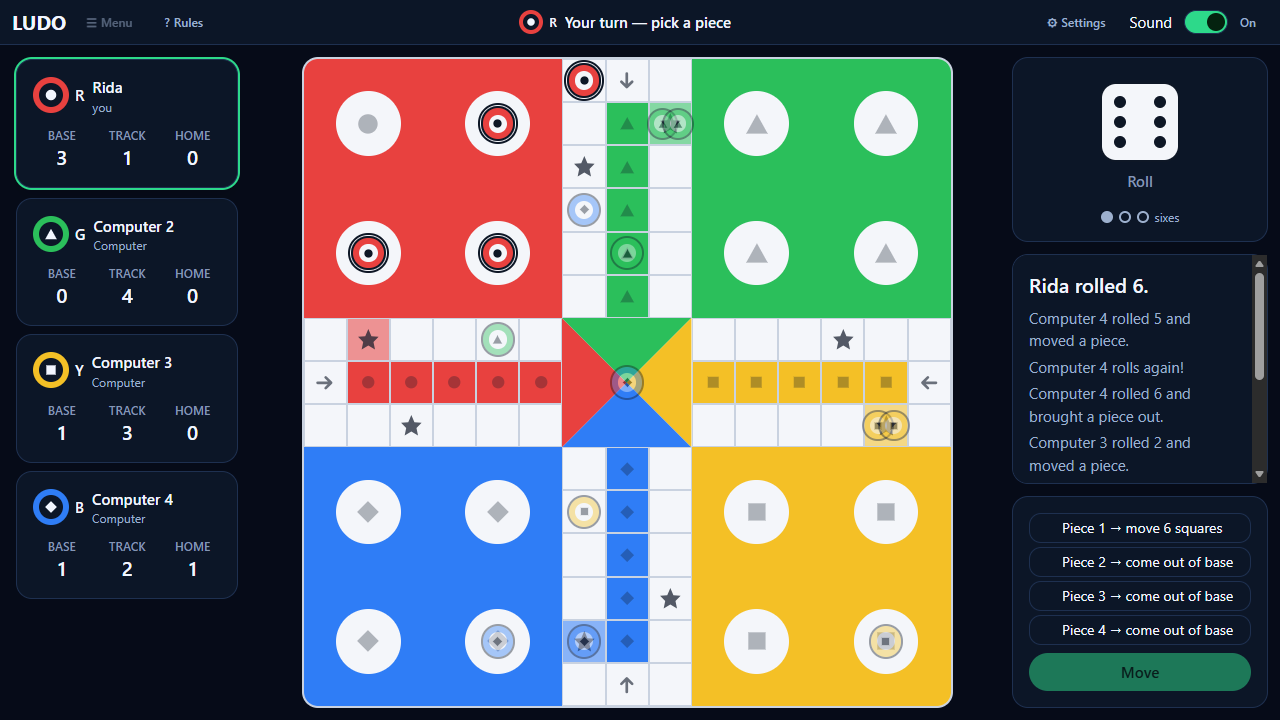
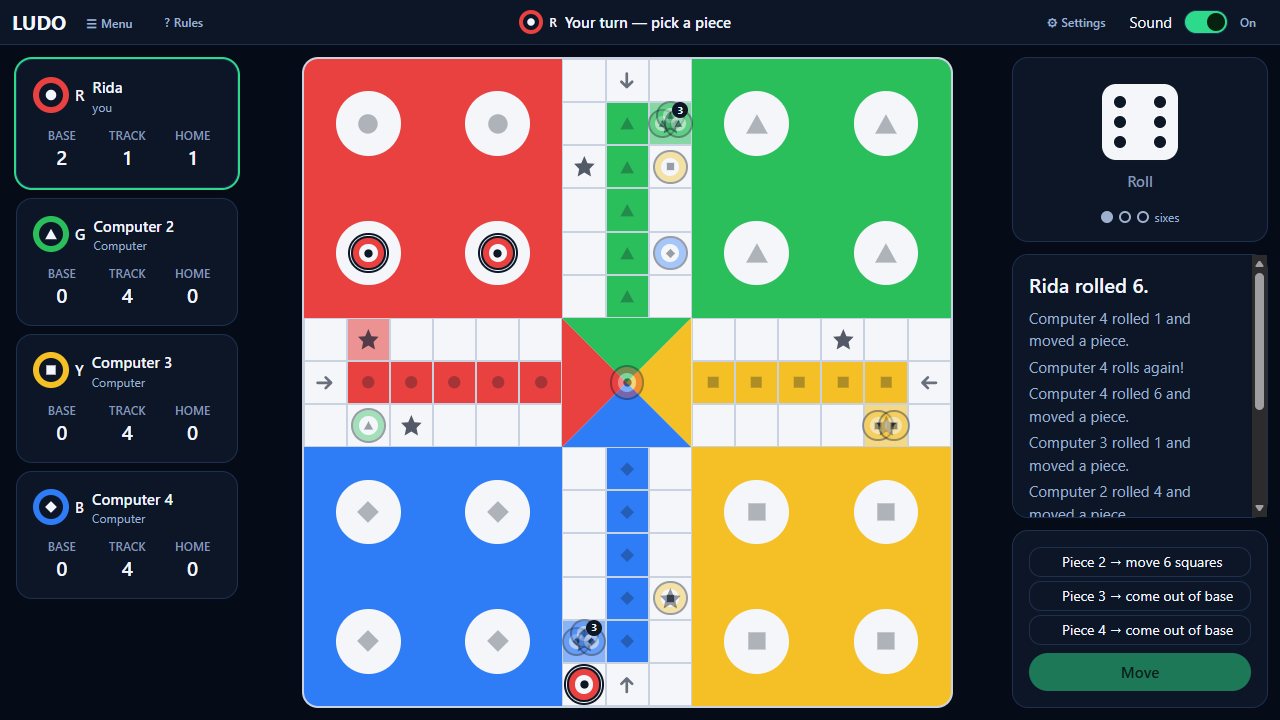
docs(traceability): record P10 evidence (FR-SYS-06, FR-SYS-08)
Adds the two-tab checks and screenshots for the win screen, restart and
leaving, and refreshes the rows they affect, including the PR count for
NFR-SYS-13.

diff --git a/docs/05-traceability.md b/docs/05-traceability.md
@@ -17,11 +17,11 @@ Status: `—` not started · `WIP` · `Done` · `Blocked (reason)`
 | FR-SYS-03 Legal choices and move | FR-14–16, FR-18 | P8 | `src/store/gameStore.test.ts` covers EXC-03-2 in the store (an accepted move changes nothing until the snapshot arrives) and that legal moves come only from the server's list. `src/screens/GameScreen.test.tsx`, `src/interaction/useMoveSelection.test.ts`, `src/components/PieceLayer.test.tsx`, `src/components/Piece.test.tsx` and `src/components/MoveList.test.tsx` prove only `legalMoves` pieces are buttons (POST-03-1), the destination and capture preview, that one click never sends, that nothing moves before the new snapshot (EXC-03-2), and that a piece no longer legal shows the reason and resyncs (EXC-03-1, tests only). `docs/evidence/FR-SYS-03-move-checks.md` records whole games by mouse and by keyboard in a real match, and `docs/evidence/FR-SYS-03-capture-preview.png` shows the preview | Done |
 | FR-SYS-04 Invalid moves | FR-17 | P3, P8, P11 | `src/store/gameStore.test.ts` covers POST-04-1 (a rejected move leaves the snapshot deep-equal) and EXC-04-1 in the store (a timed-out command keeps state and clears pending). `src/adapter/LgsAdapter.test.ts` covers EXC-04-1 over a real socket (no ack, an ack for another request or an incomplete ack becomes `INTERNAL_ERROR`). `src/screens/GameScreen.test.tsx` proves on the game screen that a refused move shows the server's reason, drops the choice and leaves the board alone, that a reply with no reason gets friendly words (ALT-04-1), and that pressing again retries (EXC-04-1). These are tests only, because the real screen never offers an illegal piece. `src/components/ToastRegion.test.tsx` proves an error message stays until dismissed and sits in a live region. Still needed: recovery after a dropped connection (P11) | WIP |
 | FR-SYS-05 Animation and events | FR-19, FR-23, FR-36, FR-38 | P8, P9 | `src/store/gameStore.test.ts` proves an event never changes the snapshot. `src/feedback/messages.test.ts` covers every message template and proves nothing is guessed (EXC-05-1), `src/feedback/useEventFeedback.test.ts` proves events play in order and that no effect appears without an event, `src/components/MessageLog.test.tsx` covers the log, and `src/components/EventBanner.test.tsx` covers the banners. `src/components/PieceLayer.test.tsx` proves a moved piece keeps its element and lands where the geometry says, `src/feedback/motion.test.ts` covers how long it takes, and `docs/evidence/FR-SYS-09-game-screen-checks.md` measured 0 px error after a live move. `src/interaction/useMoveWalk.test.ts` and `src/screens/GameScreen.test.tsx` prove the step-by-step walk, Skip, an interrupted walk ending where the snapshot says, and the same final board with animation on or off (POST-05-2). `docs/evidence/FR-SYS-03-move-checks.md` measures each of these in a real match, and `docs/evidence/FR-SYS-05-event-checks.md` records a capture playing in order, the log reading correctly, and Animations and Sound Off ending on the same board and words | Done |
-| FR-SYS-06 Progress and completion | FR-25–29 | P6, P10 | `src/config/geometry.test.ts` covers `progressCounts` and `src/store/gameStore.test.ts` covers `selectProgress` and `selectPlayerProgress`. `src/screens/GameScreen.test.tsx` checks Base, Track and Home against written-out numbers for all six fixtures, and that a dev-only check complains if `home` differs from `player.piecesHome`. `src/components/StatusPanel.test.tsx` covers the cards. `docs/evidence/FR-SYS-09-game-screen-checks.md` shows the cards matching the pieces in a live match. Still needed: winner screen only on `GAME_OVER` (P10) | WIP |
+| FR-SYS-06 Progress and completion | FR-25–29 | P6, P10 | `src/config/geometry.test.ts` covers `progressCounts` and `src/store/gameStore.test.ts` covers `selectProgress` and `selectPlayerProgress`. `src/screens/GameScreen.test.tsx` checks Base, Track and Home against written-out numbers for all six fixtures, and that a dev-only check complains if `home` differs from `player.piecesHome`. `src/components/StatusPanel.test.tsx` covers the cards. `docs/evidence/FR-SYS-09-game-screen-checks.md` shows the cards matching the pieces in a live match. `src/screens/WinScreen.test.tsx` proves the winner is the server's and the ranking appears only if sent, in the server's order (POST-06-3, EXC-06-1). `src/store/gameStore.test.ts` proves each match counts once in the session score, and `src/feedback/diceCheck.test.ts` covers the dice check. `src/feedback/useEventFeedback.test.ts` and `src/screens/GameScreen.test.tsx` prove the win screen waits for `GAME_OVER` and the last move (POST-06-2). `docs/evidence/FR-SYS-06-win-restart-checks.md` and `docs/evidence/FR-SYS-06-win-screen.png` show it in real matches | Done |
 | FR-SYS-07 Computer moves | FR-30–31 | P5, P7 | `src/store/gameStore.test.ts` covers `selectIsComputerTurn`. Choosing computer players is done: `src/screens/LobbyScreen.test.tsx` proves a seat fills only when `room:updated` arrives (POST-07-2), and `docs/evidence/FR-SYS-01-lobby-flow.md` shows it live in two tabs. `docs/evidence/FR-SYS-07-computer-move-from-snapshot.png` shows a computer's move drawn from a real snapshot on the game screen. `src/screens/GameScreen.test.tsx` proves a computer's turn says "Computer is thinking…" with the dots, and `docs/evidence/FR-SYS-07-computer-thinking.png` shows it in a real match | Done |
-| FR-SYS-08 Restart, exit, rematch | FR-32–34 | P5, P10 | `src/components/ConfirmDialog.test.tsx` covers the dialog alone. Leaving the lobby is connected: `src/screens/LobbyScreen.test.tsx` and `src/store/gameStore.test.ts` prove Cancel sends nothing (POST-08-1) and a failed leave keeps the room (POST-08-3), and `docs/evidence/FR-SYS-01-lobby-flow.md` shows Esc and Cancel changing nothing in a real browser. Still needed: confirm dialog on restart and leave during a game; cancel leaves the game unchanged | WIP |
+| FR-SYS-08 Restart, exit, rematch | FR-32–34 | P5, P10 | `src/components/ConfirmDialog.test.tsx` covers the dialog alone. Leaving the lobby is connected: `src/screens/LobbyScreen.test.tsx` and `src/store/gameStore.test.ts` prove Cancel sends nothing (POST-08-1) and a failed leave keeps the room (POST-08-3), and `docs/evidence/FR-SYS-01-lobby-flow.md` shows Esc and Cancel changing nothing in a real browser. `src/components/GameMenu.test.tsx` and `src/screens/GameScreen.test.tsx` prove Restart and Leave ask first, Cancel changes nothing (POST-08-1), and a refused request keeps the game (POST-08-3, tests only). `src/screens/WinScreen.test.tsx`, `src/screens/StoppedScreen.test.tsx` and `src/interaction/useAppNavigation.test.ts` cover Play again, New game, Main menu and the stopped screen, which is tests only. `docs/evidence/FR-SYS-06-win-restart-checks.md` and `docs/evidence/FR-SYS-08-restart-confirm.png` show the rest in real matches with two tabs | Done |
 | FR-SYS-09 One-screen view | FR-35–36 | P6 | `docs/evidence/FR-SYS-09-one-screen-1280x720.png` and `docs/evidence/FR-SYS-09-game-screen-checks.md`: board, dice, turn, progress and messages all fit at 1280×720 with no scrolling, measured in Edge. Under 1024 px the layout stacks and hides nothing (ALT-09-1). `src/screens/GameScreen.test.tsx` proves every part is on the screen. `docs/evidence/FR-SYS-03-move-checks.md` re-measures the screen with the longest list of moves open, and `docs/evidence/FR-SYS-05-event-checks.md` with a full message log. P7 and P9 filled the dice and messages with live content | Done |
-| FR-SYS-10 Sound, animation, theme | FR-37–39 | P5, P8, P9 | `src/App.test.tsx` covers all three settings in the Settings modal and POST-10-2 and POST-10-3: changing them leaves the snapshot and room untouched and sends nothing to the server. `docs/evidence/FR-SYS-01-lobby-flow.md` shows the theme switching on every screen, and `docs/evidence/FR-SYS-10-game-light.png` shows the game screen in light theme. `src/screens/GameScreen.test.tsx` proves the top bar's sound switch leaves the snapshot alone. `docs/evidence/NFR-SYS-08-kitchen-sink-checks.md` shows On, Fast and Off changing how long CSS motion takes. `docs/evidence/FR-SYS-03-move-checks.md` shows Animations On and Off ending on an identical board in a real match. `src/feedback/sound.test.ts` proves sound waits for the first press and does nothing when off. `docs/evidence/FR-SYS-05-event-checks.md` shows the right sounds playing in a real match (placeholder tones), and sound, theme and animation changed during a real game with the board and log unchanged. Saving settings stays behind `PERSIST_SETTINGS` (ALT-10-1 is TO CONFIRM) | Done |
+| FR-SYS-10 Sound, animation, theme | FR-37–39 | P5, P8, P9 | `src/App.test.tsx` covers all three settings in the Settings modal and POST-10-2 and POST-10-3: changing them leaves the snapshot and room untouched and sends nothing to the server. `docs/evidence/FR-SYS-01-lobby-flow.md` shows the theme switching on every screen, and `docs/evidence/FR-SYS-10-game-light.png` shows the game screen in light theme. `src/screens/GameScreen.test.tsx` proves the top bar's sound switch leaves the snapshot alone. `docs/evidence/NFR-SYS-08-kitchen-sink-checks.md` shows On, Fast and Off changing how long CSS motion takes. `docs/evidence/FR-SYS-03-move-checks.md` shows Animations On and Off ending on an identical board in a real match. `src/feedback/sound.test.ts` proves sound waits for the first press and does nothing when off. `docs/evidence/FR-SYS-05-event-checks.md` shows the right sounds playing in a real match (placeholder tones), and sound, theme and animation changed during a real game with the board and log unchanged. `docs/evidence/FR-SYS-10-win-light.png` shows the win screen in light theme. Saving settings stays behind `PERSIST_SETTINGS` (ALT-10-1 is TO CONFIRM) | Done |
 | (D2 FR-07) Rules summary | FR-07 | P5, P6 | `src/components/RulesSummary.test.tsx` proves the text is built from `rules`. `src/App.test.tsx` proves How to play opens the standard rules from the main screen, that a room's own rules replace them in the lobby, and that the game screen's Rules button opens that match's rules. `docs/evidence/NFR-SYS-11-changed-rules.png` shows the text following the server's rules in a real match | Done |
 | (D2 FR-03) Same-device HvH | FR-03 | P13 | TO CONFIRM | Blocked (same-device play is TO CONFIRM, `00-requirements.md` §5) |
 
@@ -31,17 +31,17 @@ Status: `—` not started · `WIP` · `Done` · `Blocked (reason)`
 |---|---|---|---|
 | NFR-SYS-01 1 s acknowledgement | P4, P12 | `src/store/gameStore.test.ts` proves `pendingCommand` is set as soon as a roll is sent. `src/components/Button.test.tsx` and `src/components/Dice.test.tsx` prove the pending and rolling states. `docs/evidence/NFR-SYS-08-kitchen-sink-checks.md` shows "Rolling…" appearing at once. `src/screens/SetupScreen.test.tsx`, `src/screens/LobbyScreen.test.tsx` and `src/screens/GameScreen.test.tsx` prove the pressed control shows pending at once on the real screens, and `docs/evidence/FR-SYS-02-dice-checks.md` shows it on the die in a real match. `src/interaction/useMoveSelection.test.ts` and `src/screens/GameScreen.test.tsx` prove a move locks the controls and shows pending at once. Still needed: Performance-panel trace on the real screens | WIP |
 | NFR-SYS-02 AI within 2 s | P12 | Dev log of AI turn durations over one game | — |
-| NFR-SYS-03 No crash | P6, P12 | The game screen has an error boundary. `src/components/ErrorBoundary.test.tsx` and `src/App.test.tsx` prove a snapshot that can't be drawn shows "Something went wrong — your game is safe" and a Try again button that sends `state:sync`, and that a good snapshot brings the board back. Tests only: the mock can't send a broken snapshot to a real browser. `docs/evidence/FR-SYS-03-move-checks.md` records 2 whole games with no console errors, and `docs/evidence/FR-SYS-05-event-checks.md` 2 more on later code. Still needed: a boundary on the other screens; 5 full games in a row on the final build (P12) | WIP |
+| NFR-SYS-03 No crash | P6, P12 | The game screen has an error boundary. `src/components/ErrorBoundary.test.tsx` and `src/App.test.tsx` prove a snapshot that can't be drawn shows "Something went wrong — your game is safe" and a Try again button that sends `state:sync`, and that a good snapshot brings the board back. Tests only: the mock can't send a broken snapshot to a real browser. `docs/evidence/FR-SYS-03-move-checks.md` records 2 whole games with no console errors, and `docs/evidence/FR-SYS-05-event-checks.md` and `docs/evidence/FR-SYS-06-win-restart-checks.md` 2 more each on later code. Still needed: a boundary on the other screens; 5 full games in a row on the final build (P12) | WIP |
 | NFR-SYS-04 State kept on bad input | P3 | `src/store/gameStore.test.ts`: an older version is dropped, and a rejected or timed-out command leaves the snapshot deep-equal. `src/adapter/LgsAdapter.test.ts`: an incomplete reply is never applied. P11 adds the reconnect case | Done |
 | NFR-SYS-05 Dice not altered | P7 | `src/components/Dice.test.tsx`: the face equals the value given, and no number shows while rolling. A search finds no `Math.random` in `src/`, and `eslint.config.js` now rejects it outside tests. `src/screens/GameScreen.test.tsx` proves the die lands on the server's 6, 1 and 3. `docs/evidence/FR-SYS-02-dice-checks.md` and `docs/evidence/NFR-SYS-05-die-shows-six.png` show the same forced rolls in a real match | Done |
 | NFR-SYS-06 First-timer completes a turn | P12 | Hallway test with one person; note result | — |
-| NFR-SYS-07 Not colour alone | P4, P12 | `docs/evidence/NFR-SYS-07-player-marks.png`: the `PlayerMark` row in grayscale, where shape and letter still tell the four players apart. `PlayerMark` and `Piece` read `PLAYER_IDENTITY` in `src/config/players.ts`. `src/screens/LobbyScreen.test.tsx` proves every lobby seat shows its mark, empty seats included. `src/components/StatusPanel.test.tsx` proves the game screen's cards show more than colour, and `docs/evidence/NFR-SYS-07-board-grayscale.png` shows the board and status panel in grayscale. `docs/evidence/NFR-SYS-07-move-highlights-grayscale.png` and `docs/evidence/NFR-SYS-07-capture-grayscale.png` show the move highlights, destination marker and dashed capture ring in grayscale. P9's capture and finish effects are movement, and the log uses names, so neither depends on colour. Still needed: repeat it for P10's win screen (P12) | WIP |
-| NFR-SYS-08 Simple wording + keyboard | P4–P10, P12 | `src/components/SegmentedControl.test.tsx`, `src/components/Dice.test.tsx`, `src/App.test.tsx` and `docs/evidence/NFR-SYS-08-kitchen-sink-checks.md` cover the controls on their own. `docs/evidence/FR-SYS-01-lobby-flow.md` records a keyboard-only run from the main screen through setup and the lobby to the game starting, and `docs/evidence/FR-SYS-09-game-screen-checks.md` records the Tab order and the `?` and Esc keys on the game screen. `src/interaction/useGameKeys.test.ts` covers `R`, `1`–`4`, `Enter`, `Esc` and `S`, and `docs/evidence/FR-SYS-02-dice-checks.md` shows rolling by `R` and Space with the die keeping focus. `docs/evidence/FR-SYS-03-move-checks.md` records a whole game, from the main screen to a winner, played with only the keyboard. Player-facing text is in `src/feedback/copy.ts`. Still needed: the confirm dialogs and win screen from P10 | WIP |
+| NFR-SYS-07 Not colour alone | P4, P12 | `docs/evidence/NFR-SYS-07-player-marks.png`: the `PlayerMark` row in grayscale, where shape and letter still tell the four players apart. `PlayerMark` and `Piece` read `PLAYER_IDENTITY` in `src/config/players.ts`. `src/screens/LobbyScreen.test.tsx` proves every lobby seat shows its mark, empty seats included. `src/components/StatusPanel.test.tsx` proves the game screen's cards show more than colour, and `docs/evidence/NFR-SYS-07-board-grayscale.png` shows the board and status panel in grayscale. `docs/evidence/NFR-SYS-07-move-highlights-grayscale.png` and `docs/evidence/NFR-SYS-07-capture-grayscale.png` show the move highlights, destination marker and dashed capture ring in grayscale. P9's capture and finish effects are movement, and the log uses names, so neither depends on colour. `docs/evidence/NFR-SYS-07-win-grayscale.png` shows the win screen in grayscale. Still needed: the full pass in P12 | WIP |
+| NFR-SYS-08 Simple wording + keyboard | P4–P10, P12 | `src/components/SegmentedControl.test.tsx`, `src/components/Dice.test.tsx`, `src/App.test.tsx` and `docs/evidence/NFR-SYS-08-kitchen-sink-checks.md` cover the controls on their own. `docs/evidence/FR-SYS-01-lobby-flow.md` records a keyboard-only run from the main screen through setup and the lobby to the game starting, and `docs/evidence/FR-SYS-09-game-screen-checks.md` records the Tab order and the `?` and Esc keys on the game screen. `src/interaction/useGameKeys.test.ts` covers `R`, `1`–`4`, `Enter`, `Esc` and `S`, and `docs/evidence/FR-SYS-02-dice-checks.md` shows rolling by `R` and Space with the die keeping focus. `docs/evidence/FR-SYS-03-move-checks.md` records a whole game, from the main screen to a winner, played with only the keyboard, and `docs/evidence/FR-SYS-06-win-restart-checks.md` records the game menu, the confirm dialog and the win screen used by keyboard alone. Player-facing text is in `src/feedback/copy.ts`. Still needed: the full pass in P12 | WIP |
 | NFR-SYS-09 Chrome / Firefox / Edge | P12 | Not run yet. Every browser check so far used headless Edge (`docs/evidence/FR-SYS-09-game-screen-checks.md`); Chrome and Firefox have not been tried. Still needed: a smoke test in each | — |
-| NFR-SYS-10 Window sizes | P6, P12 | `docs/evidence/NFR-SYS-10-1024-wide.png`, `docs/evidence/NFR-SYS-10-1366-wide.png` and `docs/evidence/NFR-SYS-10-1920-wide.png`, with measurements in `docs/evidence/FR-SYS-09-game-screen-checks.md`: the game screen has no scrolling and every part in view. `docs/evidence/FR-SYS-03-move-checks.md` re-measures the game screen with the longest list of moves, and `docs/evidence/FR-SYS-05-event-checks.md` with a full message log. Still needed: the main, setup and lobby screens at these widths; repeat once P10 adds its controls (P12) | WIP |
+| NFR-SYS-10 Window sizes | P6, P12 | `docs/evidence/NFR-SYS-10-1024-wide.png`, `docs/evidence/NFR-SYS-10-1366-wide.png` and `docs/evidence/NFR-SYS-10-1920-wide.png`, with measurements in `docs/evidence/FR-SYS-09-game-screen-checks.md`: the game screen has no scrolling and every part in view. `docs/evidence/FR-SYS-03-move-checks.md` re-measures the game screen with the longest list of moves, `docs/evidence/FR-SYS-05-event-checks.md` with a full message log, and `docs/evidence/FR-SYS-06-win-restart-checks.md` the win screen. Still needed: the main, setup and lobby screens at these widths (P12) | WIP |
 | NFR-SYS-11 Rules in config | P1, P5, P6 | `src/config/geometry.test.ts` covers board geometry for all 4 colours. `mock-server/server.test.ts` proves `POST /debug/rules` changes `safeSquares` for the next match. `src/components/RulesSummary.test.tsx` proves the rules text follows `RuleConfig`. `src/App.test.tsx` proves the lobby and the game screen show the room's own rules, not the standard ones. `src/components/BoardGrid.test.tsx` proves stars follow the list they are given. `docs/evidence/NFR-SYS-11-default-board.png`, `docs/evidence/NFR-SYS-11-changed-board.png`, `docs/evidence/NFR-SYS-11-default-rules.png` and `docs/evidence/NFR-SYS-11-changed-rules.png` show `POST /debug/rules` moving the stars and changing the rules text with no code change | Done |
 | NFR-SYS-12 Defined interfaces | P2, P3 | `src/store/gameStore.test.ts` runs the store against `FakeAdapter` with no network. `src/adapter/LgsAdapter.test.ts` runs the real adapter over real sockets. `eslint.config.js` blocks `socket.io-client` outside `src/adapter/` and blocks `src/` from importing the mock. `docs/evidence/NFR-SYS-12-connected-to-mock.png` shows the app connected to the mock | Done |
-| NFR-SYS-13 Maintainable | all | PRs #1 to #16 are merged for P0 to P9, the P2 fix and five docs updates; folder layout followed. None of the first fifteen had a recorded review when checked on 2026-11-09, #16 was merged without one, and our D3 names PR reviews as the proof. Still needed: PR reviews; a PR for each remaining task | WIP |
+| NFR-SYS-13 Maintainable | all | PRs #1 to #17 are merged for P0 to P10, the P2 fix and five docs updates; folder layout followed. None of the first sixteen had a recorded review when checked on 2026-11-09, #17 was merged without one, and our D3 names PR reviews as the proof. Still needed: PR reviews; a PR for each remaining task | WIP |
 | NFR-SYS-14 No storage for play | P3, P5 | `docs/evidence/NFR-SYS-14-storage-check.md`: outside test setup, only `src/store/settingsStore.ts` uses `localStorage`, and after a game the browser holds only the display settings. Since P5, `src/store/savedSession.ts` keeps the session token in `sessionStorage`, as `CLAUDE.md` §4 allows, and clears it on leaving. Saving settings stays behind `PERSIST_SETTINGS` (ALT-10-1 is TO CONFIRM) | Done |
 
 ## Evidence folder

diff --git a/docs/evidence/FR-SYS-06-win-restart-checks.md b/docs/evidence/FR-SYS-06-win-restart-checks.md
@@ -1,0 +1,83 @@
+# Win screen, restart, leave and session score checks (P10)
+
+Run on 2026-11-09 in headless Edge, using the real app and the mock server (`mock-server --debug`
+unless noted). The two-player checks used two browser tabs: Rida as host and Hamza as a guest, with
+2 computer players.
+
+## The winner and the ranking (FR-SYS-06)
+
+The mock's `near-win` scenario, played to the end.
+
+| | Host (Rida) | Guest (Hamza) |
+|---|---|---|
+| Heading | "Rida wins!" | "Rida wins!" |
+| Final places, in the server's order | 2. Hamza, 3. Computer 3, 4. Computer 4 | The same |
+| Wins this session | Rida 1, everyone else 0 | The same |
+| Play again | Offered | Not offered: "Waiting for Rida to start a new game." |
+| Confetti | Shown | Shown |
+
+`FR-SYS-06-win-screen.png`, `FR-SYS-06-waiting-for-host.png`, `FR-SYS-10-win-light.png`,
+`NFR-SYS-07-win-grayscale.png`.
+
+The screen appeared only after the winning move had finished playing. The ranking appears because
+the server sent it.
+
+**Dice check:** "✓ They match. The dice weren't changed during this game." `FR-SYS-06-dice-check.png`.
+
+## Session score and rematch (D2 FR-29)
+
+After Play again, both tabs went back to the game with every player on 4 / 0 / 0 and an empty
+message log. Rida's card showed "1 win". After winning the rematch, the score read "Rida: 2 wins".
+
+## Restart and leave (FR-SYS-08)
+
+- **Who sees what:** the host's menu has Restart and Leave game. The guest's has only Leave game.
+- **Restart, then Cancel:** the dialog said "Restart the game?" with focus on Cancel. Cancel closed
+  it, the board was identical and focus went back to Menu (POST-08-1). `FR-SYS-08-restart-confirm.png`.
+- **Restart, then Esc:** the same.
+- **Restart, confirmed:** a board with pieces out of base reset to 4 / 0 / 0 for every player in both
+  tabs, and the old log was gone. "This game was stopped" never appeared.
+- **New game:** went to setup with the name and game type filled in from the last game.
+- **When the host left:** the guest became host and was offered Play again.
+- **Main menu:** went to the main screen.
+
+## By keyboard alone (NFR-SYS-08)
+
+- Menu, then Leave game, then the dialog with focus on Cancel. Enter on Cancel closed it and put
+  focus back on Menu. Then Leave game again, Tab to Leave, Enter: back on the main screen.
+- A finishing move by `R`, a number and Enter. The win screen arrived with focus on "Rida wins!".
+  Tab reached Play again, the dice check (opened with Enter) and Main menu (which left the game).
+
+## Whole games and other checks
+
+| | Mouse | Keyboard only |
+|---|---|---|
+| Rolls | 110 | 72 |
+| Moves | 97 | 65 |
+| Result | Rida got 4 pieces home | Computer 3 got 4 pieces home |
+| Console errors or error messages | None | None |
+
+Both games used computer delay 30 ms and no turn timer, and a script played them. In the mouse game a
+piece was covered twice at the moment of the click, by a piece passing over it, and the matching
+card was used instead.
+
+- **Your exact setup:** `npm run mock` and `npm run dev` with default rules and no debug routes: 7
+  rolls and 6 moves with no console errors.
+- **Window sizes (NFR-SYS-10):** the win screen fits with no page scrolling at 1280×720 and 1024×768.
+  At 360×640 the page scrolls down but not sideways.
+
+## Not checked here
+
+These are proved by tests only:
+
+- "This game was stopped". The mock only sends `GAME_ABANDONED` once no human is connected, so nobody
+  is left to see it. `src/interaction/useAppNavigation.test.ts` also proves a restart that sends it
+  first (as the real server will) never shows that screen.
+- A restart or leave the server refuses (POST-08-3), and Play again resting for 5 seconds.
+- `SHOW_SESSION_SCORE` being switched off, and a game with no `ranking` sent.
+
+Also:
+
+- The confetti check only confirms it drew. The dice check uses the mock's way of making the code, and
+  the contract doesn't say the real server does the same (`docs/01-contract.md` §8).
+- Only Edge and the mock have been tried.
